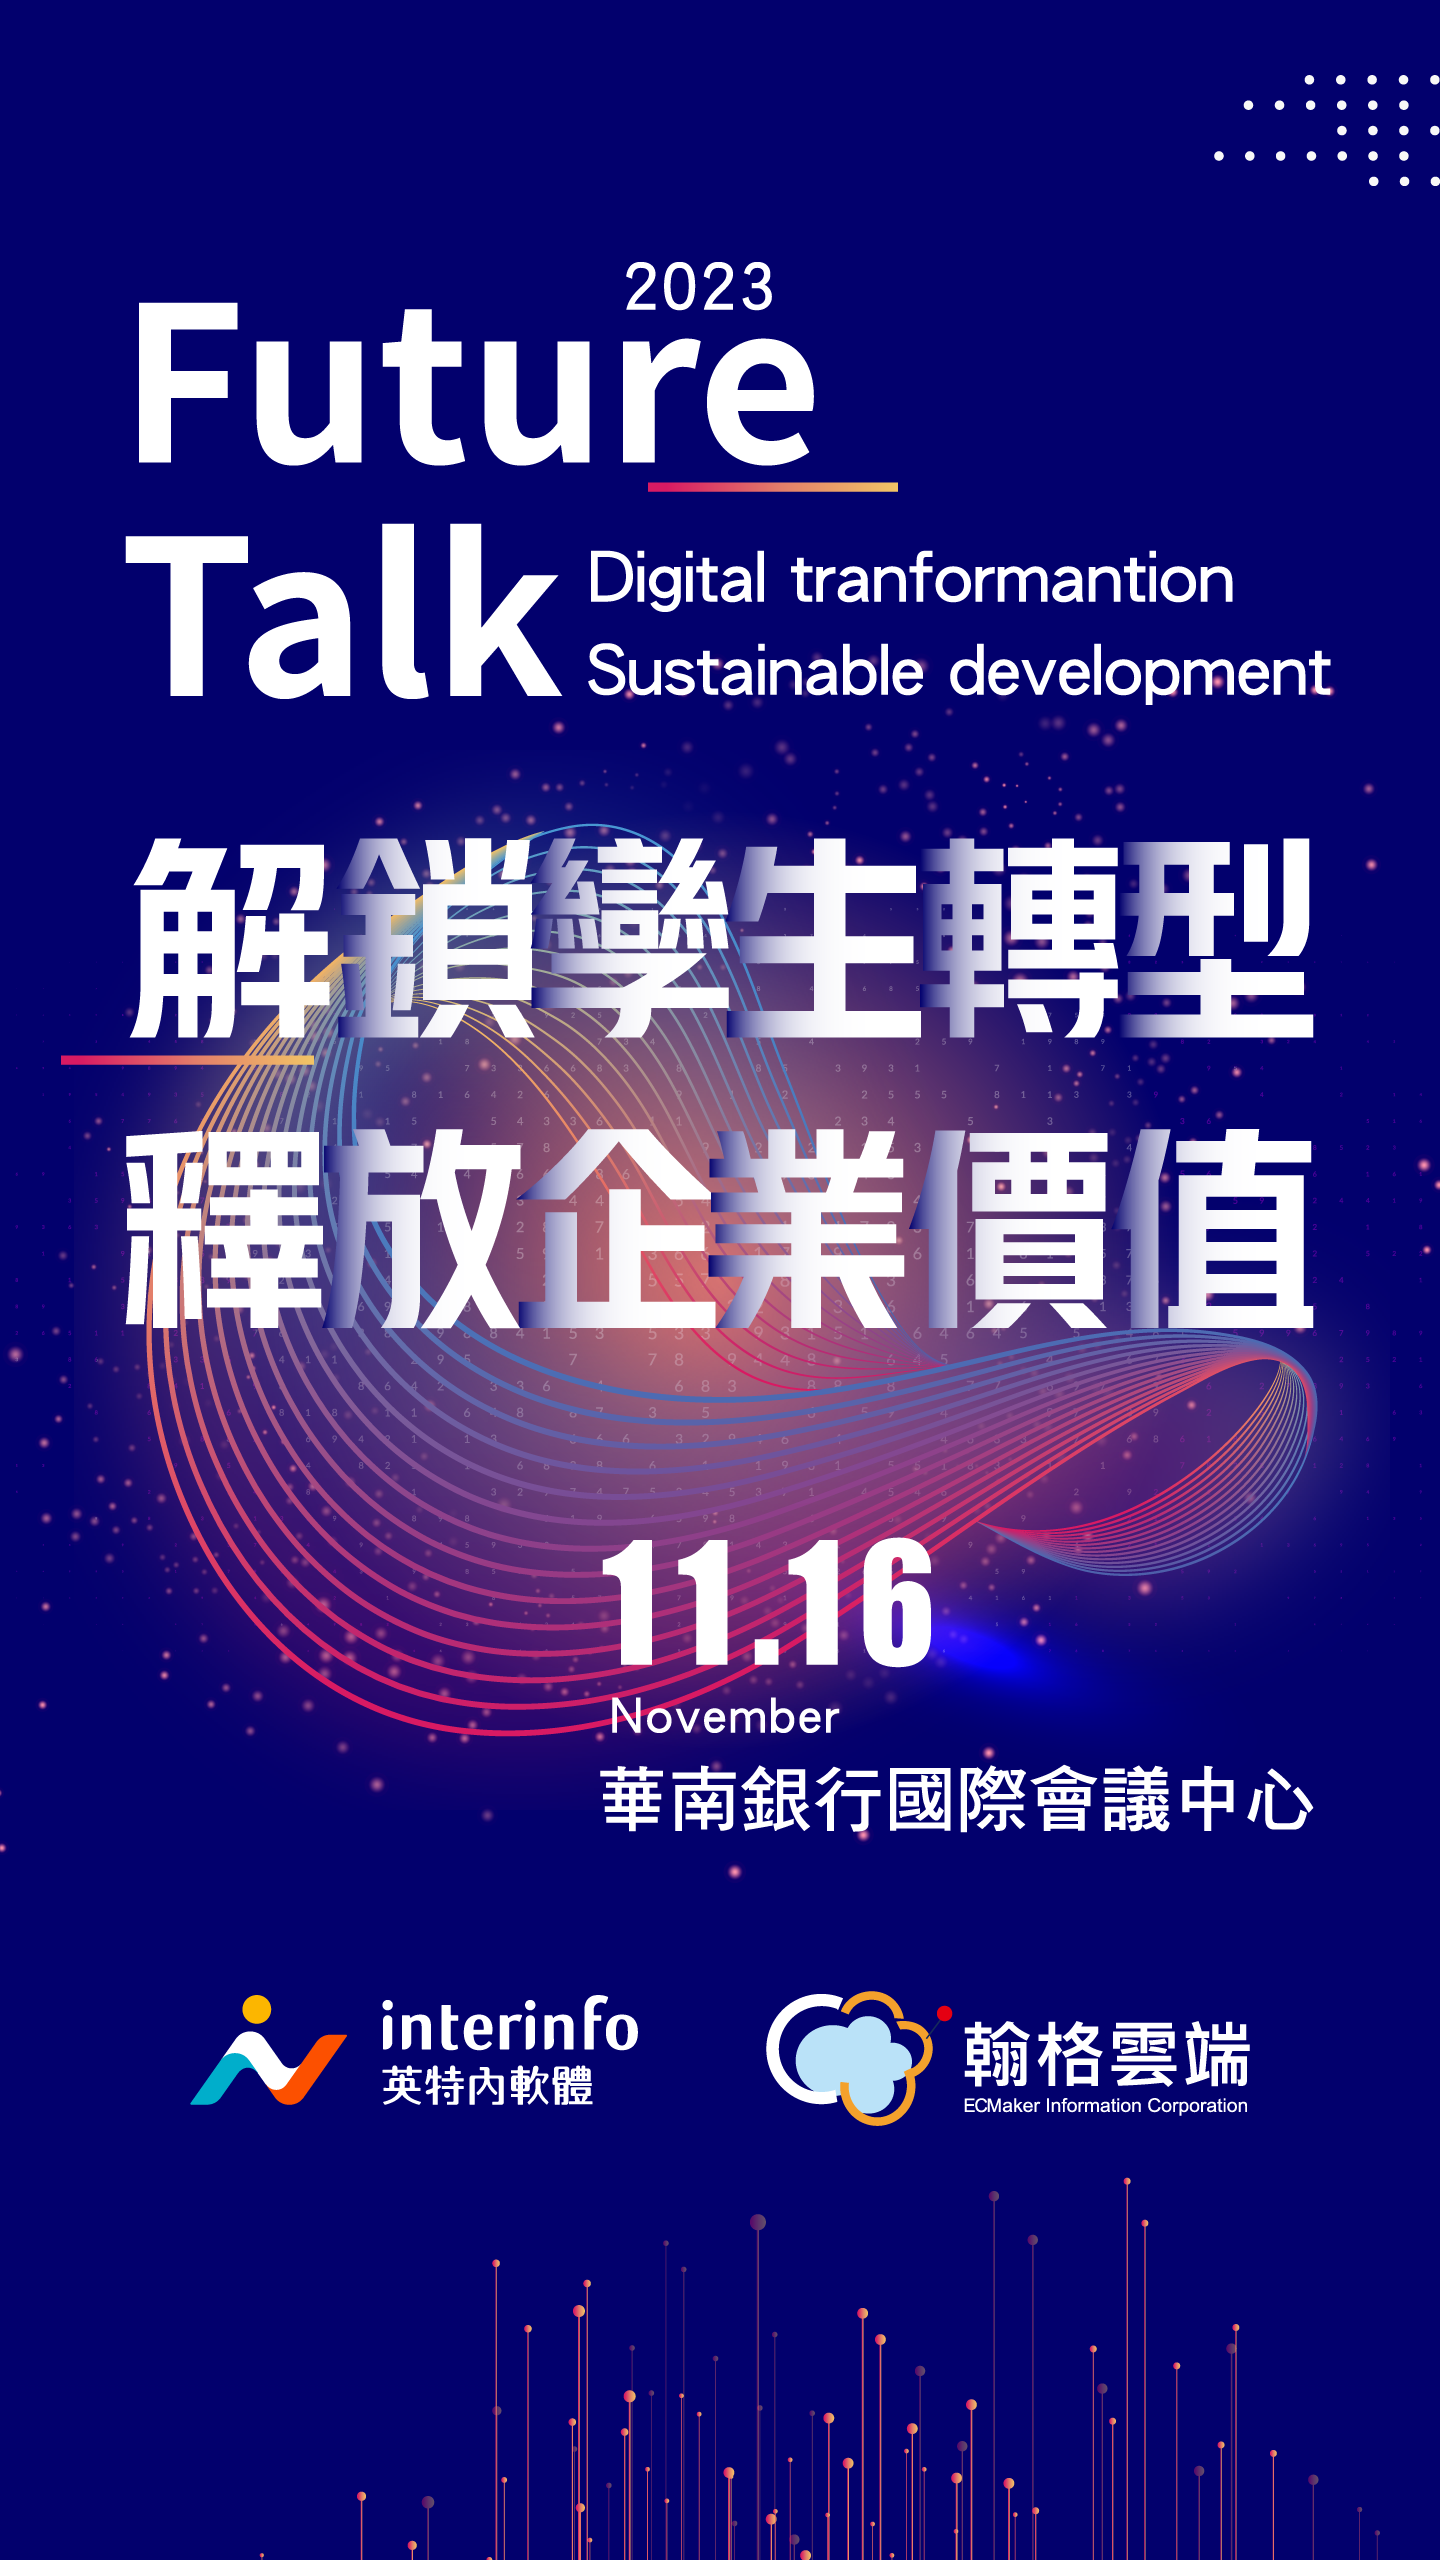
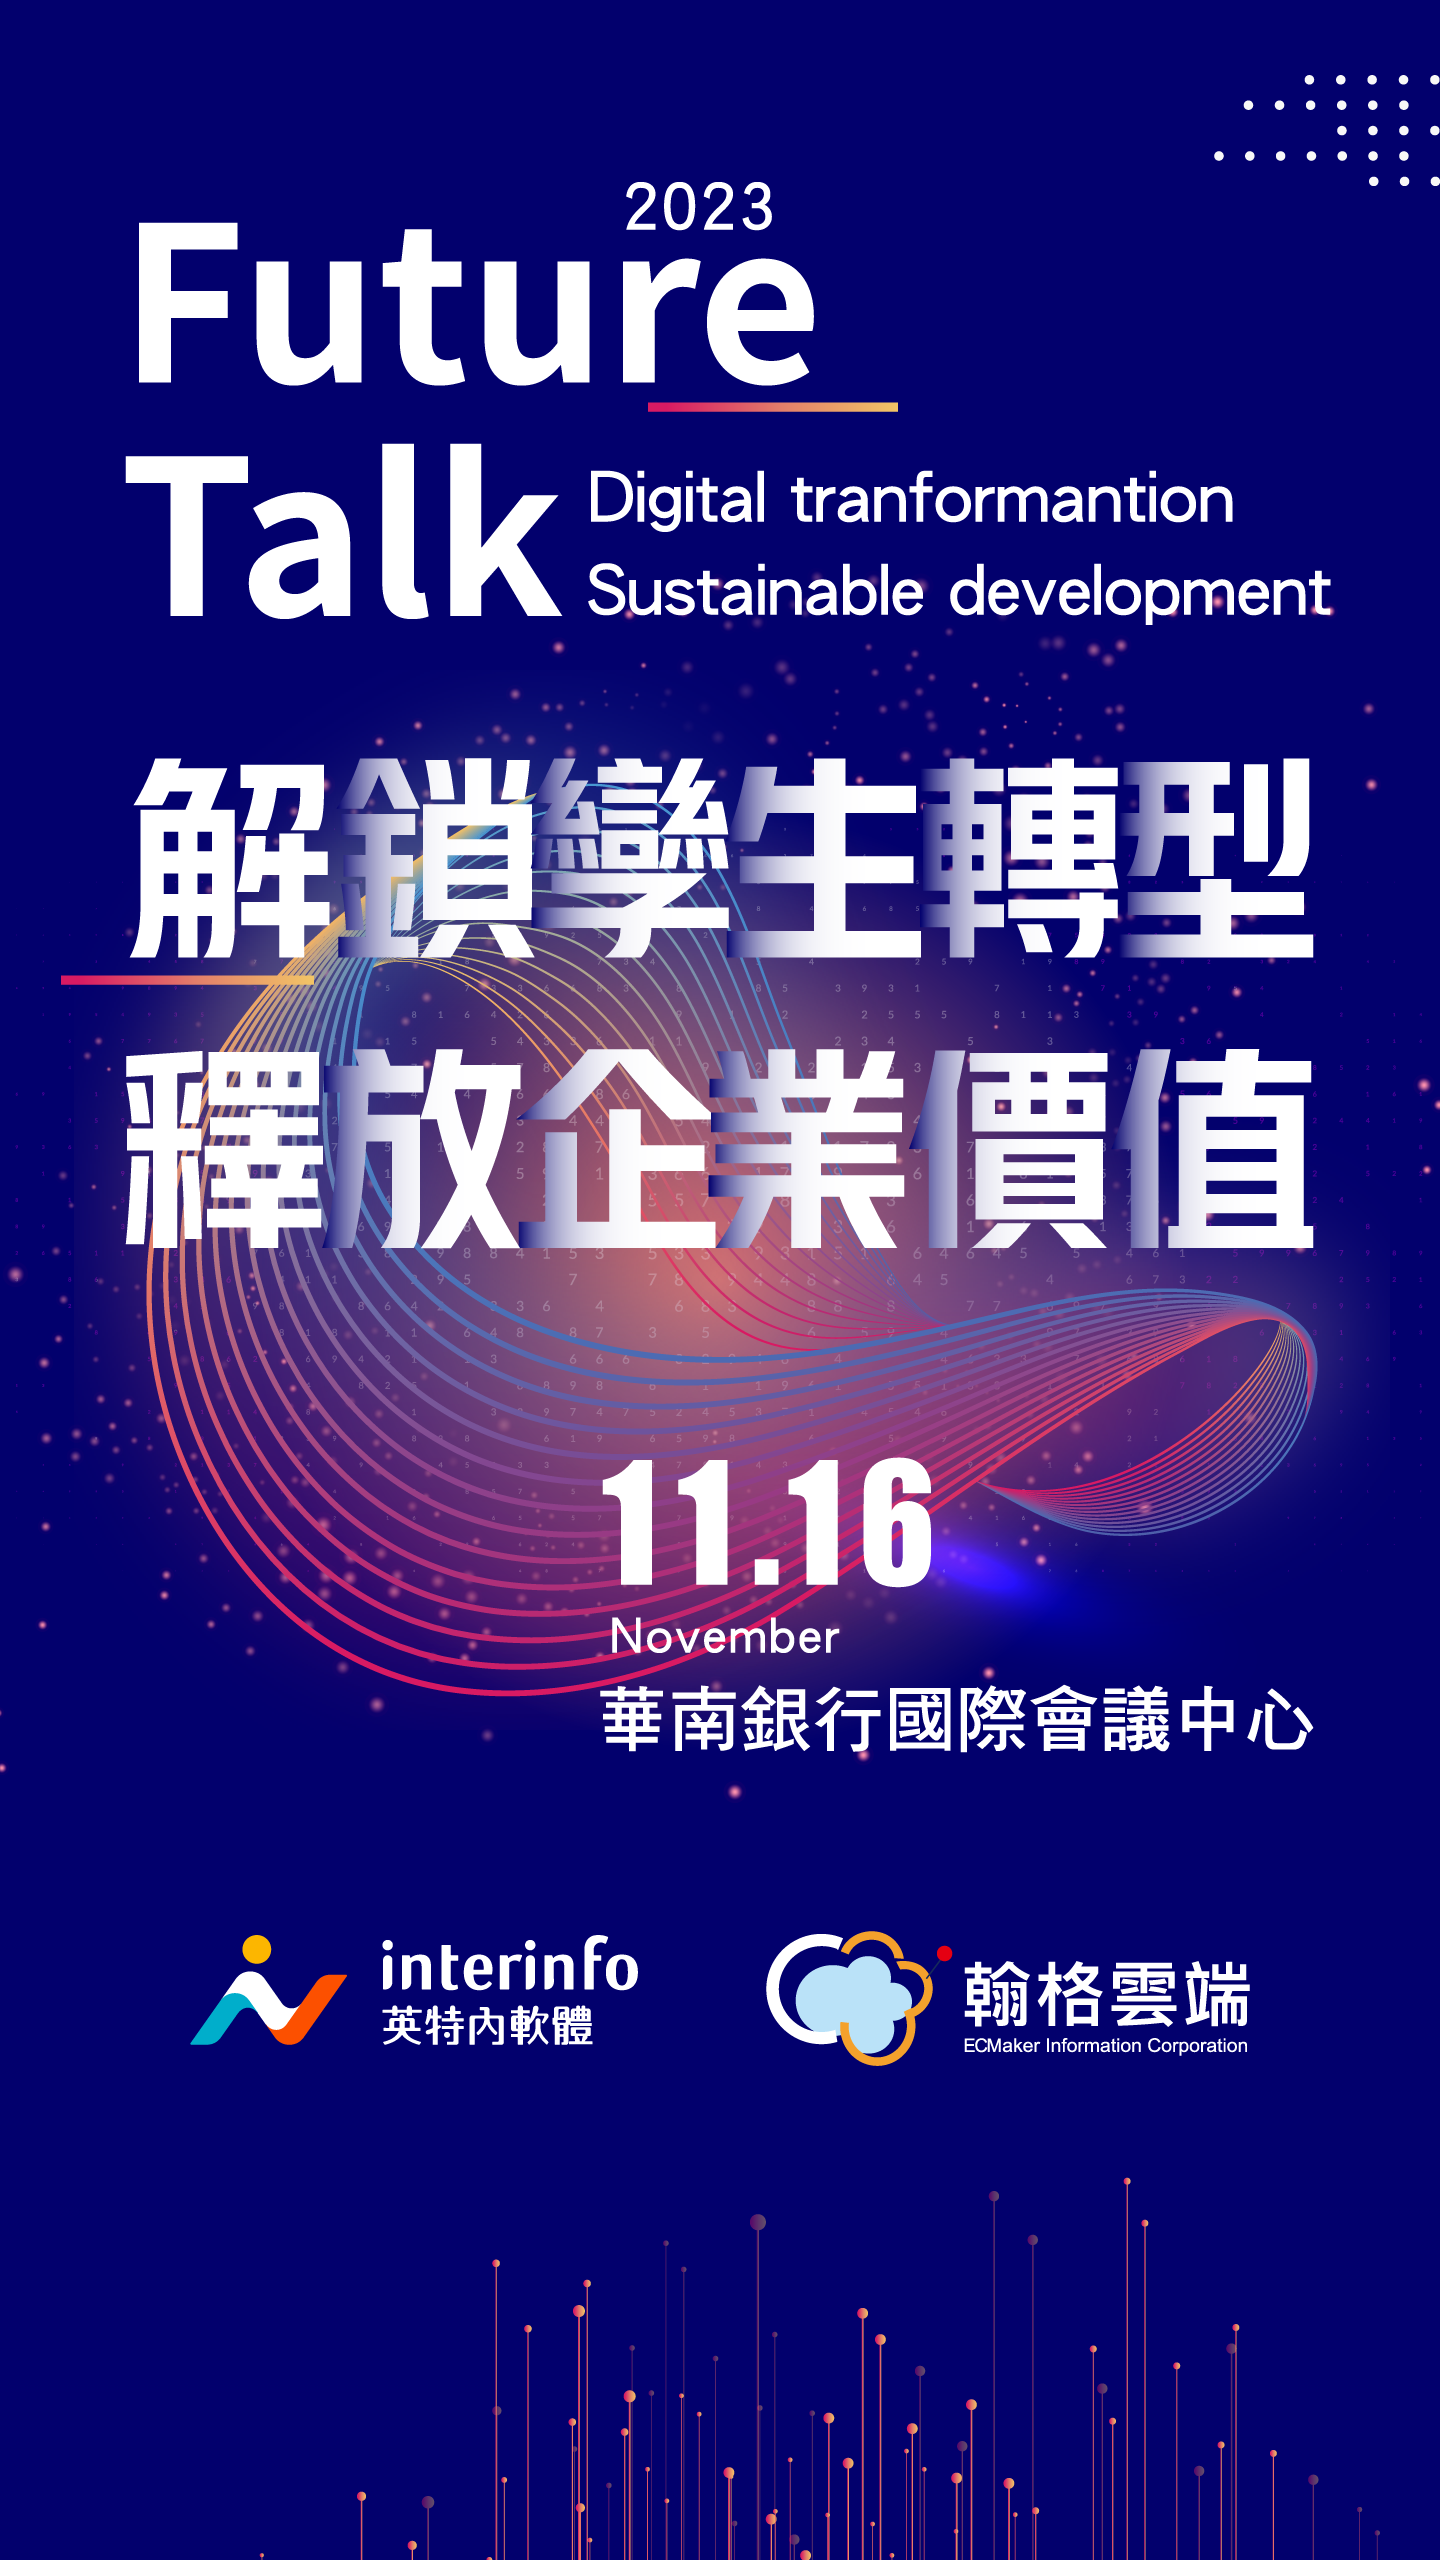
[DEMO][update] futuretalk_20231116

Changed region(s): [[0.0625, 0.0625, 0.9375, 0.7188], [0.5312, 0.75, 0.875, 0.8438], [0.125, 0.75, 0.4375, 0.8438]]

diff --git a/futuretalk_20231116/index.html b/futuretalk_20231116/index.html
@@ -6,8 +6,8 @@
     <meta name="viewport" content="width=device-width, initial-scale=1.0">
     <meta property="og:title" content="Future Talk－解鎖孿生轉型 釋放企業價值">
     <meta property="og:type" content="article">
-    <meta property="og:url" content="https://www.digitimes.com.tw/seminar/futuretalk_20231116/">
-    <meta property="og:image" content="https://www.digitimes.com.tw/seminar/futuretalk_20231116/img/webtitle.jpg">
+    <meta property="og:url" content="https://www.digitimes.com.tw/seminar/Interinfo_20231116/">
+    <meta property="og:image" content="https://www.digitimes.com.tw/seminar/Interinfo_20231116/img/webtitle.jpg">
     <meta property="og:site_name" content="DIGITIMES">
     <meta property="og:description" content="「2024 Future Talk－解鎖孿生轉型 建構企業韌性」聚焦於數位轉型先進科技應用落實智慧治理，透過理性對話探討現行制度並凝聚未來共識，對應自身產業及上下游供應鏈夥伴形塑共榮共存的因應之道，以面對瞬息萬變的大環境局勢。">
     <!--[if lt IE 9]>
@@ -20,12 +20,12 @@
     <link href="https://fonts.googleapis.com/css2?family=Noto+Sans+TC:wght@300;400;500;700&amp;display=swap" rel="stylesheet">
     <link rel="stylesheet" href="https://stackpath.bootstrapcdn.com/bootstrap/4.1.3/css/bootstrap.min.css" integrity="sha384-MCw98/SFnGE8fJT3GXwEOngsV7Zt27NXFoaoApmYm81iuXoPkFOJwJ8ERdknLPMO" crossorigin="anonymous">
     <link rel="stylesheet" href="https://unpkg.com/aos@2.3.1/dist/aos.css">
-    <link rel="stylesheet" href="style.css?v=10202147">
+    <link rel="stylesheet" href="style.css?v=10221757">
     <!-- Google Analytics-->
     <script></script>
   </head>
   <body>
-    <div class="g_fixed fix_aside"><a class="fx_item is_primary" href="" target="_blank">
+    <div class="g_fixed fix_aside"><a class="fx_item is_primary" href="https://www.digitimes.com.tw/OnLine/DataInput.asp?ProdGroup=053AC1135-0" target="_blank">
         <div class="in_wrap txt"><span>立即報名</span></div></a>
       <div class="fx_item js_scroll_top">
         <div class="in_wrap ic">
@@ -43,8 +43,8 @@
             <div class="nav_item"><a class="nav_link js_page_scroll" href="#speaker">會談嘉賓</a></div>
             <div class="nav_item"><a class="nav_link js_page_scroll" href="#company">主辦單位</a></div>
             <div class="nav_item"><a class="nav_link js_page_scroll" href="#position">場地介紹</a></div>
-            <div class="nav_item"><a class="nav_link" href="" target="_blank">立即報名</a></div>
-            <div class="nav_item"><a class="nav_link" href="" target="_blank">報名查詢</a></div>
+            <div class="nav_item"><a class="nav_link" href="https://www.digitimes.com.tw/OnLine/DataInput.asp?ProdGroup=053AC1135-0" target="_blank">立即報名</a></div>
+            <div class="nav_item"><a class="nav_link" href="https://www.digitimes.com.tw/OnLine/query.asp?ProdGroup=053AC1135-0" target="_blank">報名查詢</a></div>
           </div>
         </div>
       </div>
@@ -56,8 +56,9 @@
             <div></div>
           </div>
           <div id="particles-js"></div>
-          <div class="cover" data-aos="fade" data-aos-duration="1600" data-aos-delay="400"></div>
-          <div class="main" data-aos="zoom-in" data-aos-duration="1600" data-aos-delay="1200" data-aos-anchor="#aos0"></div>
+          <div class="cover" data-aos="fade" data-aos-duration="1600" data-aos-delay="500"></div>
+          <div class="main" data-aos="zoom-in" data-aos-duration="1600" data-aos-delay="1000" data-aos-anchor="#aos0"></div>
+          <div class="logo" data-aos="fade-up" data-aos-duration="1600" data-aos-delay="1500" data-aos-anchor="#aos0"><img class="img-fluid" src="img/kvlogo.png"></div>
           <div class="timer" data-aos="fade-up" data-aos-duration="1000" data-aos-delay="2000" data-aos-anchor="#aos0">
             <div class="tb d"><span>00</span></div>
             <div class="tb h"><span>00</span></div>
@@ -87,7 +88,7 @@
             <p data-aos="fade-up" data-aos-duration="800" data-aos-delay="900" data-aos-anchor="#aos1">利用與數位相關的尖端技術將是決定ESG發展成功與否的要素，英特內軟體提醒，企業需要從頂層策略出發，根據自身需求和組織特色制定方針，並建立健全溝通流程，採取智慧治理的方式，確保在變化莫測的外部環境中持續前行。</p>
             <p data-aos="fade-up" data-aos-duration="800" data-aos-delay="1200" data-aos-anchor="#aos1">「2024 Future Talk－解鎖孿生轉型　建構企業韌性」聚焦於數位轉型先進科技應用落實智慧治理，透過理性對話探討現行制度並凝聚未來共識，<b>對應自身產業及上下游供應鏈夥伴形塑共榮共存的因應之道，以面對瞬息萬變的大環境局勢。</b></p>
           </div>
-          <div class="cta_wrap" data-aos="fade-up" data-aos-duration="800" data-aos-delay="1200" data-aos-anchor="#aos1"><a class="primary_cta" href="" target="_blank"><span>立即報名</span></a></div>
+          <div class="cta_wrap" data-aos="fade-up" data-aos-duration="800" data-aos-delay="1200" data-aos-anchor="#aos1"><a class="primary_cta" href="https://www.digitimes.com.tw/OnLine/DataInput.asp?ProdGroup=053AC1135-0" target="_blank"><span>立即報名</span></a></div>
         </div>
       </section>
       <section class="sec_sec">
@@ -130,7 +131,7 @@
             <div class="tgt" data-aos="fade-up" data-aos-duration="600" data-aos-delay="900"> 企業決策者／管理層</div>
             <div class="tip" data-aos="fade-up" data-aos-duration="600" data-aos-delay="1200"> <small>以及</small> 任何想進一步關注數位最新趨勢者</div>
           </div>
-          <div class="cta_wrap"><a class="primary_cta" href="" target="_blank"><span>立即報名</span></a></div>
+          <div class="cta_wrap"><a class="primary_cta" href="https://www.digitimes.com.tw/OnLine/DataInput.asp?ProdGroup=053AC1135-0" target="_blank"><span>立即報名</span></a></div>
         </div>
       </section>
       <section class="sc_agenda" id="agenda">

diff --git a/futuretalk_20231116/style.css b/futuretalk_20231116/style.css
@@ -89,6 +89,7 @@ body {
   top: 0;
   z-index: 98;
   width: 100%;
+  background-color: rgba(2, 0, 109, 0);
 }
 .g_header.is_active {
   position: fixed;
@@ -277,7 +278,7 @@ body {
 }
 .g_kv .desktop .content {
   position: relative;
-  height: 56.25vw;
+  height: min(100vh, 56.26vw);
   background: url("img/mainbg.png") center/cover;
 }
 .g_kv .desktop .kv,
@@ -309,6 +310,13 @@ body {
 .g_kv .desktop .main {
   z-index: 1;
   background-image: url("img/kv_z5.png");
+}
+.g_kv .desktop .logo {
+  position: absolute;
+  width: 27.6041666667%;
+  left: 6.6666666667%;
+  bottom: 4.1666666667vh;
+  z-index: 2;
 }
 .g_kv .desktop .timer {
   position: absolute;
@@ -930,7 +938,6 @@ body {
   margin: 0 auto;
   max-width: 212px;
   background: #e4f5ff url("img/ui/speech.svg") center/120px no-repeat;
-  cursor: pointer;
   overflow: hidden;
 }
 .spk_item .pic img {
